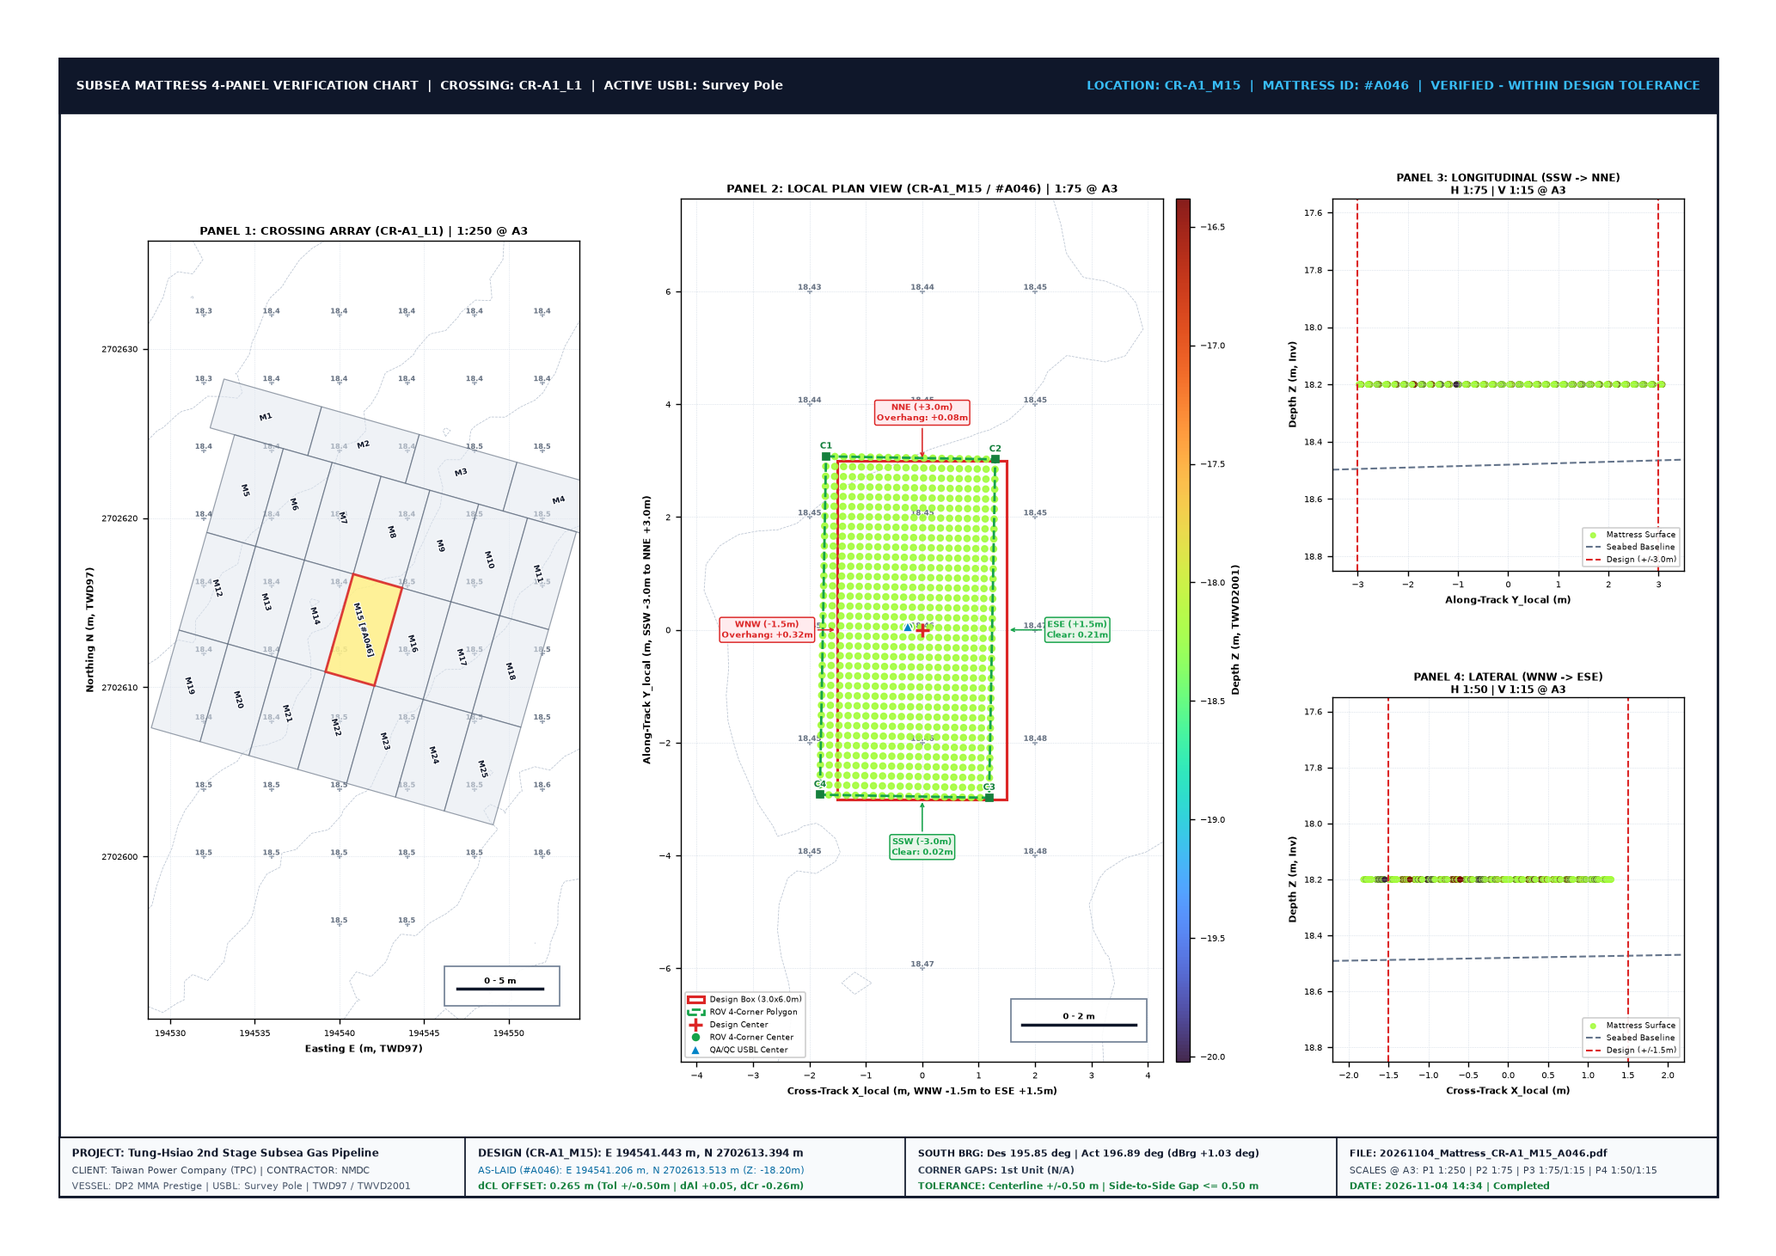
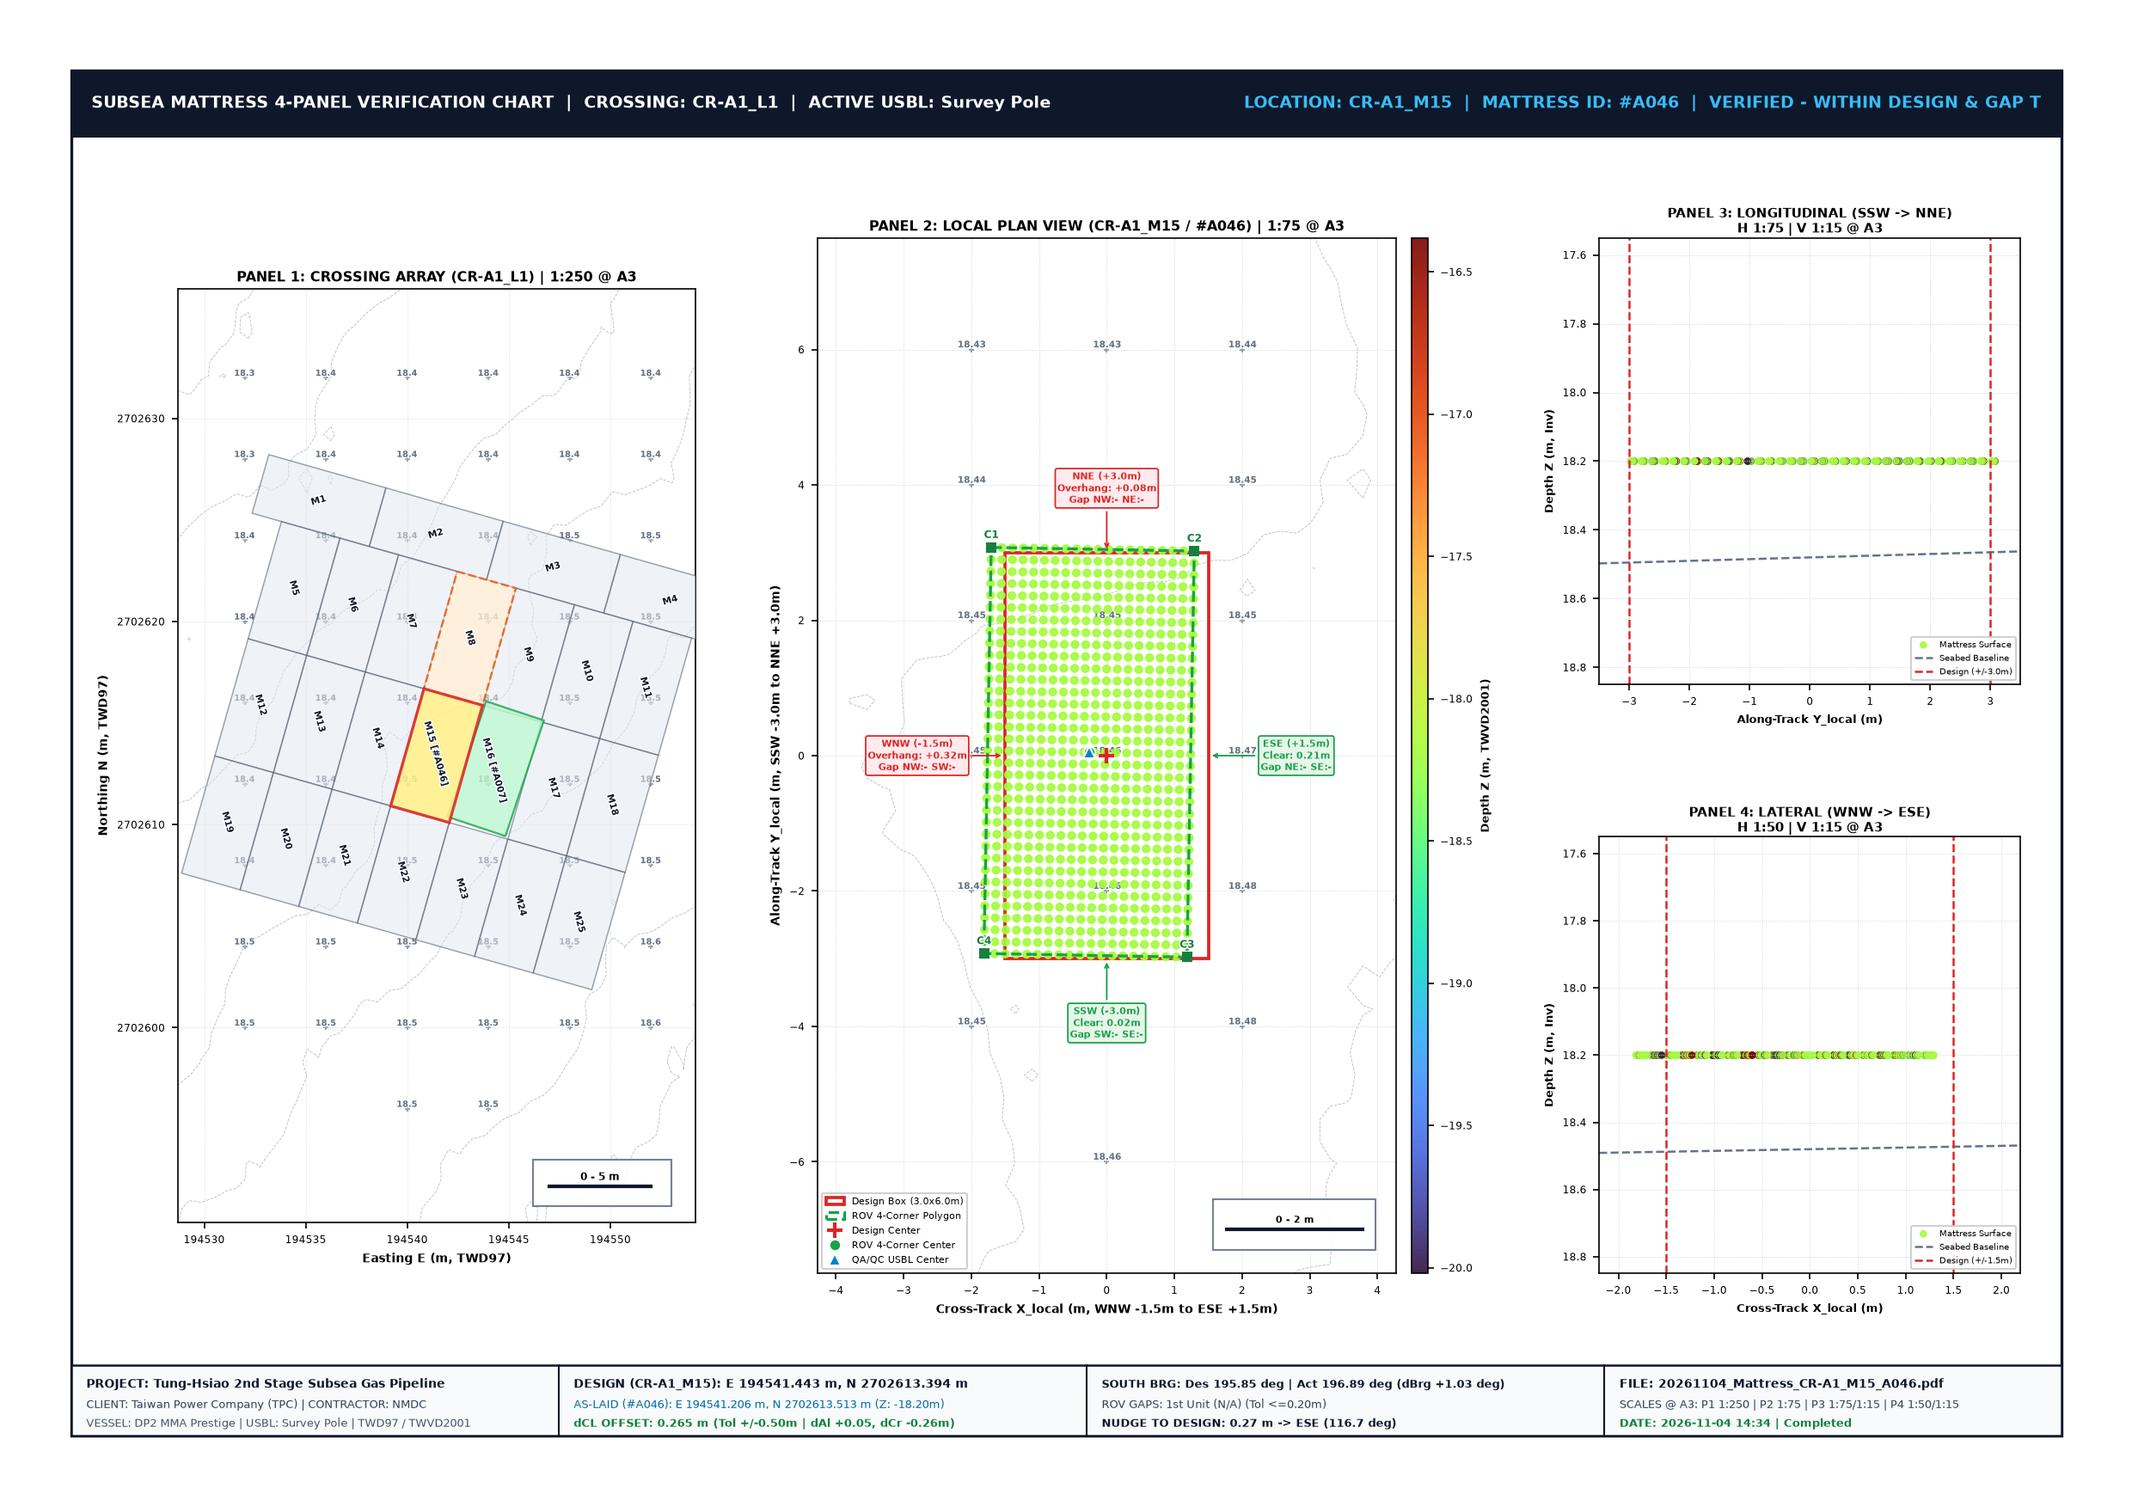
fix(mti): set concrete mattress thickness to 0.30m (30cm) and center Panels 3 & 4 Z-axes

diff --git a/mti_4panel_math.py b/mti_4panel_math.py
@@ -1,4 +1,4 @@
-import os, re, math, json
+import os, re, math, json
 from datetime import datetime
 import numpy as np
 
@@ -253,7 +253,6 @@ def idw_interpolate(src_xy, src_z, query_xy, power=2.0):
     return (w @ src_z) / np.sum(w, axis=1)
 
 def get_or_build_seabed_xyz(workspace_dir, crossing_id, boxes_dict, ref_depth_m=None):
-    """Loads ONLY real uploaded bathy soundings for the location (never invents fallback depths)."""
     os.makedirs(workspace_dir, exist_ok=True)
     base_area = str(crossing_id or "CR-A1_L1").split("_")[0]
     candidates = [
@@ -275,6 +274,13 @@ def get_or_build_seabed_xyz(workspace_dir, crossing_id, boxes_dict, ref_depth_m=
                 pass
     return np.zeros((0, 3), dtype=float), "NO_BATHY_UPLOADED"
 
+def _is_legacy_placeholder_z(val):
+    try:
+        v = -abs(float(val))
+        return abs(v) < 2.0 or abs(v - (-18.20)) < 0.05 or abs(v - (-18.35)) < 0.05 or abs(v - (-18.45)) < 0.05
+    except Exception:
+        return True
+
 def run_rov_4panel_verification(fix_data, catalog_list, workspace_dir="workspace", cl_tol=0.50, gap_tol=0.50):
     xing_id = str(fix_data.get("crossing_id") or "CR-A1_L1").strip()
     loc_id = str(fix_data.get("design_box_id") or fix_data.get("location_id") or "CR-A1_M15").strip()
@@ -287,9 +293,42 @@ def run_rov_4panel_verification(fix_data, catalog_list, workspace_dir="workspace
     loc_id, xing_id = tb["id"], tb["layer"]
     des_e, des_n, des_brg, des_az, ul, us = tb["design_e"], tb["design_n"], tb["bearing"], tb["azimuth"], tb["u_long"], tb["u_short"]
 
+    # 1. Load real bathy seabed FIRST so we know the true seabed elevation at the mattress location
+    seabed_full_xyz, bathy_src = get_or_build_seabed_xyz(workspace_dir, xing_id, boxes_dict)
+    if len(seabed_full_xyz) > 0:
+        sb_d = seabed_full_xyz[:, :2] - np.array([des_e, des_n])
+        sb_x, sb_y = sb_d @ us, sb_d @ ul
+        m_loc = (np.abs(sb_x) <= 12.0) & (np.abs(sb_y) <= 14.0)
+        seabed_local_xyz = np.column_stack([sb_x[m_loc], sb_y[m_loc], seabed_full_xyz[m_loc, 2]]) if np.any(m_loc) else np.column_stack([sb_x, sb_y, seabed_full_xyz[:, 2]])
+        b_zmin, b_zmax = round(float(np.min(seabed_full_xyz[:, 2])), 2), round(float(np.max(seabed_full_xyz[:, 2])), 2)
+        sb_near_global = seabed_full_xyz[m_loc] if np.any(m_loc) else seabed_full_xyz
+        seabed_at_center = float(idw_interpolate(sb_near_global[:, :2], sb_near_global[:, 2], np.array([[des_e, des_n]]))[0])
+    else:
+        seabed_local_xyz = np.zeros((0, 3), dtype=float)
+        sb_near_global = np.zeros((0, 3), dtype=float)
+        b_zmin, b_zmax = 0.0, 0.0
+        seabed_at_center = -54.00
+
+    # Concrete Mattress Thickness = 30 cm (0.30 m) above seabed by default
+    try:
+        mat_thick = float(fix_data.get("mat_thickness_m") if fix_data.get("mat_thickness_m") is not None and str(fix_data.get("mat_thickness_m")).strip() != "" else 0.30)
+    except Exception:
+        mat_thick = 0.30
+
     as_e, as_n = float(fix_data.get("aslaid_e") or fix_data.get("qaqc_e") or des_e), float(fix_data.get("aslaid_n") or fix_data.get("qaqc_n") or des_n)
-    raw_z = float(fix_data.get("aslaid_z") or 0.0)
-    as_z = -abs(raw_z) if abs(raw_z) > 2.0 else (-18.20 if unit_no == 1 else -18.35)
+    raw_z = fix_data.get("aslaid_z")
+    if raw_z is not None and str(raw_z).strip() != "" and not _is_legacy_placeholder_z(raw_z):
+        cand_z = -abs(float(raw_z))
+        if len(seabed_full_xyz) == 0 or abs(cand_z - seabed_at_center) <= 5.0:
+            as_z = cand_z
+            use_seabed_drape = False
+        else:
+            as_z = round(seabed_at_center + mat_thick, 3)
+            use_seabed_drape = True
+    else:
+        as_z = round(seabed_at_center + mat_thick, 3)
+        use_seabed_drape = True
+
     hdg = float(fix_data.get("heading_deg") or fix_data.get("qaqc_brg") or des_brg)
     hdg = round((hdg + 180.0) % 360.0, 3) if hdg < 180.0 else hdg
 
@@ -298,13 +337,23 @@ def run_rov_4panel_verification(fix_data, catalog_list, workspace_dir="workspace
         ce, cn, cz = fix_data.get(f"c{i}_e"), fix_data.get(f"c{i}_n"), fix_data.get(f"c{i}_z")
         if ce is not None and cn is not None and str(ce).strip() != "" and str(cn).strip() != "":
             try:
-                zv = -abs(float(cz)) if (cz is not None and str(cz).strip() != "" and abs(float(cz)) > 2.0) else as_z
-                c_pts.append([float(ce), float(cn), zv])
+                fe_i, fn_i = float(ce), float(cn)
+                if cz is not None and str(cz).strip() != "" and not _is_legacy_placeholder_z(cz) and not use_seabed_drape:
+                    zv = -abs(float(cz))
+                elif len(sb_near_global) > 0:
+                    zv = float(idw_interpolate(sb_near_global[:, :2], sb_near_global[:, 2], np.array([[fe_i, fn_i]]))[0]) + mat_thick
+                else:
+                    zv = as_z
+                c_pts.append([round(fe_i, 3), round(fn_i, 3), round(zv, 3)])
             except Exception:
                 pass
     if len(c_pts) != 4:
         c2d, _, _ = _box_corners_cw(as_e, as_n, (hdg - 180.0) % 360.0, 6.0, 3.0)
-        c_pts = [[round(float(p[0]), 3), round(float(p[1]), 3), round(as_z, 3)] for p in c2d]
+        if len(sb_near_global) > 0 and use_seabed_drape:
+            cz_arr = idw_interpolate(sb_near_global[:, :2], sb_near_global[:, 2], c2d) + mat_thick
+            c_pts = [[round(float(p[0]), 3), round(float(p[1]), 3), round(float(z_i), 3)] for p, z_i in zip(c2d, cz_arr)]
+        else:
+            c_pts = [[round(float(p[0]), 3), round(float(p[1]), 3), round(as_z, 3)] for p in c2d]
     c_arr = np.array(c_pts, dtype=float)
     as_e, as_n, as_z = float(np.mean(c_arr[:, 0])), float(np.mean(c_arr[:, 1])), float(np.mean(c_arr[:, 2]))
     be, bn, fe, fn = (c_arr[0, 0] + c_arr[1, 0]) / 2.0, (c_arr[0, 1] + c_arr[1, 1]) / 2.0, (c_arr[2, 0] + c_arr[3, 0]) / 2.0, (c_arr[2, 1] + c_arr[3, 1]) / 2.0
@@ -315,6 +364,10 @@ def run_rov_4panel_verification(fix_data, catalog_list, workspace_dir="workspace
     ug, vg = np.meshgrid(np.linspace(0.0, 1.0, 20), np.linspace(0.0, 1.0, 35))
     uf, vf = ug.ravel(), vg.ravel()
     cleaned_xyz = (np.outer((1 - uf) * (1 - vf), c_arr[3]) + np.outer((1 - uf) * vf, c_arr[0]) + np.outer(uf * vf, c_arr[1]) + np.outer(uf * (1 - vf), c_arr[2]))
+    if len(sb_near_global) > 0 and use_seabed_drape:
+        cleaned_xyz[:, 2] = idw_interpolate(sb_near_global[:, :2], sb_near_global[:, 2], cleaned_xyz[:, :2]) + mat_thick
+        as_z = float(np.mean(cleaned_xyz[:, 2]))
+
     d_en = cleaned_xyz[:, :2] - np.array([des_e, des_n])
     x_local, y_local, z_vals = d_en @ us, d_en @ ul, cleaned_xyz[:, 2]
     c_loc_d = c_arr[:, :2] - np.array([des_e, des_n])
@@ -341,17 +394,6 @@ def run_rov_4panel_verification(fix_data, catalog_list, workspace_dir="workspace
 
     verdict = ("VERIFIED - WITHIN DESIGN TOLERANCE" if is_first else "VERIFIED - WITHIN DESIGN & GAP TOLERANCE") if (cl_off <= float(cl_tol) and (is_first or max_gap <= float(gap_tol))) else "ADVISORY - CHECK OFFSET OR GAP TOLERANCE"
 
-    seabed_full_xyz, bathy_src = get_or_build_seabed_xyz(workspace_dir, xing_id, boxes_dict)
-    if len(seabed_full_xyz) > 0:
-        sb_d = seabed_full_xyz[:, :2] - np.array([des_e, des_n])
-        sb_x, sb_y = sb_d @ us, sb_d @ ul
-        m_loc = (np.abs(sb_x) <= 12.0) & (np.abs(sb_y) <= 14.0)
-        seabed_local_xyz = np.column_stack([sb_x[m_loc], sb_y[m_loc], seabed_full_xyz[m_loc, 2]]) if np.any(m_loc) else np.column_stack([sb_x, sb_y, seabed_full_xyz[:, 2]])
-        b_zmin, b_zmax = round(float(np.min(seabed_full_xyz[:, 2])), 2), round(float(np.max(seabed_full_xyz[:, 2])), 2)
-    else:
-        seabed_local_xyz = np.zeros((0, 3), dtype=float)
-        b_zmin, b_zmax = 0.0, 0.0
-
     cad_polylines = load_cad_bg_polylines(workspace_dir, xing_id)
 
     metrics = {
@@ -359,7 +401,9 @@ def run_rov_4panel_verification(fix_data, catalog_list, workspace_dir="workspace
         "status": str(fix_data.get("status") or "Completed"), "base_filename": build_base_filename(loc_id, mat_id, dt_str),
         "design_e": des_e, "design_n": des_n, "design_brg": des_brg, "design_az": des_az,
         "qaqc_e": float(fix_data.get("qaqc_e") or as_e), "qaqc_n": float(fix_data.get("qaqc_n") or as_n), "qaqc_brg": float(fix_data.get("qaqc_brg") or hdg),
-        "aslaid_e": round(as_e, 3), "aslaid_n": round(as_n, 3), "aslaid_z": round(as_z, 3), "heading_deg": hdg, "act_az": act_az, "brg_diff_deg": d_brg,
+        "aslaid_e": round(as_e, 3), "aslaid_n": round(as_n, 3), "aslaid_z": round(as_z, 2),
+        "seabed_at_center_z": round(seabed_at_center, 2), "mat_thickness_m": round(mat_thick, 2),
+        "heading_deg": hdg, "act_az": act_az, "brg_diff_deg": d_brg,
         "cl_offset_m": round(cl_off, 3), "d_along_m": round(d_along, 3), "d_cross_m": round(d_cross, 3), "pct_inside": round(pct_in, 1),
         "corners_enz": c_arr.tolist(), "corners_local": corners_local.tolist(),
         "edge_nne": round(float(np.max(y_local)) - 3.0, 3), "edge_ssw": round(-3.0 - float(np.min(y_local)), 3),

diff --git a/mti_4panel_a3.py b/mti_4panel_a3.py
@@ -1,4 +1,4 @@
-import os, io, re, gc, math
+import os, io, re, gc, math
 import numpy as np
 import matplotlib
 matplotlib.use("Agg")
@@ -178,8 +178,10 @@ def generate_a3_4panel_chart(
     plot_seabed_layer(ax2, seabed_local_xyz, (-hw2, hw2), (-hh2, hh2), True, show_contours, contour_interval, show_soundings, spot_spacing, bathy_src)
     plot_cad_background(ax2, cad_polys, is_local=True, des_e=des_e, des_n=des_n, u_short=tb["u_short"], u_long=tb["u_long"])
 
+    z_mean = float(np.mean(z_vals))
+    vmin_c, vmax_c = round(z_mean - 0.50, 2), round(z_mean + 0.50, 2)
     ax2.add_patch(mpatches.Rectangle((-1.5, -3.0), 3.0, 6.0, fill=False, edgecolor="#dc2626", linewidth=1.8, zorder=5, label="Design Box (3.0x6.0m)"))
-    sc2 = ax2.scatter(x_local, y_local, c=z_vals, cmap="turbo", s=16, alpha=0.9, zorder=6)
+    sc2 = ax2.scatter(x_local, y_local, c=z_vals, cmap="turbo", vmin=vmin_c, vmax=vmax_c, s=16, alpha=0.9, zorder=6)
     cax2 = fig.add_axes([278.0 / W_MM, 46.0 / H_MM, 3.2 / W_MM, 204.0 / H_MM])
     cb2 = fig.colorbar(sc2, cax=cax2); cb2.set_label("Depth Z (m, TWVD2001)", fontsize=6.4, fontweight="bold"); cb2.ax.tick_params(labelsize=5.6)
 
@@ -243,20 +245,20 @@ def generate_a3_4panel_chart(
     ax2.set_xlabel("Cross-Track X_local (m, WNW -1.5m to ESE +1.5m)", fontsize=6.6, fontweight="bold"); ax2.set_ylabel("Along-Track Y_local (m, SSW -3.0m to NNE +3.0m)", fontsize=6.6, fontweight="bold")
     ax2.tick_params(labelsize=5.8); ax2.grid(True, linestyle=":", linewidth=0.45, color="#cbd5e1")
 
-    z_mean = float(np.mean(z_vals))
     sb_loc_arr = np.asarray(seabed_local_xyz, dtype=float)
     for ax_p, coord_arr, lim_x, edge_v, is_long, ttl, x_lbl in [
         (fig.add_axes([315.0 / W_MM, 162.0 / H_MM, 83.0 / W_MM, 88.0 / H_MM]), y_local, (-3.5, 3.5), 3.0, True, "PANEL 3: LONGITUDINAL (SSW -> NNE)" + chr(10) + "H 1:75 | V 1:15 @ A3", "Along-Track Y_local (m)"),
         (fig.add_axes([315.0 / W_MM, 46.0 / H_MM, 83.0 / W_MM, 86.0 / H_MM]), x_local, (-2.2, 2.2), 1.5, False, "PANEL 4: LATERAL (WNW -> ESE)" + chr(10) + "H 1:50 | V 1:15 @ A3", "Cross-Track X_local (m)")
     ]:
-        ax_p.scatter(coord_arr, np.abs(z_vals), c=z_vals, cmap="turbo", s=10, alpha=0.85, label="Mattress Surface")
+        ax_p.scatter(coord_arr, np.abs(z_vals), c=z_vals, cmap="turbo", vmin=vmin_c, vmax=vmax_c, s=10, alpha=0.85, label="Mattress Surface")
         xs_l = np.linspace(lim_x[0], lim_x[1], 40)
         if bathy_src == "SURVEY_BATHY" and len(sb_loc_arr) >= 1:
             q_prof = np.column_stack([np.zeros_like(xs_l), xs_l]) if is_long else np.column_stack([xs_l, np.zeros_like(xs_l)])
             z_prof = idw_interpolate(sb_loc_arr[:, :2], sb_loc_arr[:, 2], q_prof)
             ax_p.plot(xs_l, np.abs(z_prof), "--", color="#0284c7", lw=1.35, label="Survey Seabed Profile")
-            z_span = np.concatenate([np.abs(z_vals), np.abs(z_prof)])
-            y_hi, y_lo = float(np.max(z_span)) + 0.45, float(np.min(z_span)) - 0.45
+            z_center = 0.5 * (float(np.mean(np.abs(z_vals))) + float(np.mean(np.abs(z_prof))))
+            half_win = max(0.65, 0.5 * abs(float(np.max(np.abs(z_prof)) - np.min(np.abs(z_vals)))) + 0.35)
+            y_hi, y_lo = z_center + half_win, z_center - half_win
         else:
             y_hi, y_lo = abs(z_mean) + 0.65, abs(z_mean) - 0.65
         ax_p.axvline(-edge_v, color="#dc2626", ls="--", lw=1.2, label=f"Design (+/-{edge_v:.1f}m)"); ax_p.axvline(edge_v, color="#dc2626", ls="--", lw=1.2)

diff --git a/_finish_hotel_30cm.py b/_finish_hotel_30cm.py
@@ -1,0 +1,38 @@
+import os, glob, ast, subprocess
+
+print("=== [1/3] Stripping UTF-8 BOM (U+FEFF) & Verifying mti_4panel_math.py / mti_4panel_a3.py ===")
+for fn in ("mti_4panel_math.py", "mti_4panel_a3.py"):
+    if os.path.exists(fn):
+        txt = open(fn, "r", encoding="utf-8-sig").read().lstrip("\ufeff")
+        if fn == "mti_4panel_math.py":
+            txt = txt.replace("else 0.15)", "else 0.30)").replace("mat_thick = 0.15", "mat_thick = 0.30")
+        ast.parse(txt)
+        open(fn, "w", encoding="utf-8").write(txt)
+        print(f"  -> Cleaned BOM & AST-verified: {fn}")
+
+print("=== [2/3] Adding 0.30 m Thickness Input to /mti/studio in mti_blueprint.py ===")
+if os.path.exists("mti_blueprint.py"):
+    b_txt = open("mti_blueprint.py", "r", encoding="utf-8-sig").read().lstrip("\ufeff")
+    old_ctrl = '<div class="col-md-1 col-6">\n        <label class="small fw-bold text-light">Mattress ID</label>\n        <input type="text" id="inpTagId" class="form-control form-control-sm fw-bold" value="{{ init_tag }}">\n      </div>'
+    new_ctrl = (
+        '<div class="col-md-1 col-6">\n        <label class="small fw-bold text-light">Mattress ID</label>\n        <input type="text" id="inpTagId" class="form-control form-control-sm fw-bold" value="{{ init_tag }}">\n      </div>\n'
+        '      <div class="col-md-1 col-6">\n        <label class="small fw-bold text-warning" title="Concrete Mattress Thickness (30 cm = 0.30 m)">Thick (m)</label>\n        <input type="number" step="0.01" id="inpMatThick" class="form-control form-control-sm fw-bold bg-dark text-warning border-warning" value="0.30">\n      </div>'
+    )
+    if 'id="inpMatThick"' not in b_txt and old_ctrl in b_txt:
+        b_txt = b_txt.replace(old_ctrl, new_ctrl, 1)
+        b_txt = b_txt.replace('<div class="col-md-3 col-12">\n        <label class="small fw-bold text-info">1-Click Installed Ledger Mattress Switcher</label>', '<div class="col-md-2 col-12">\n        <label class="small fw-bold text-info">Ledger Switcher</label>', 1)
+        b_txt = b_txt.replace("payload.physical_tag = document.getElementById('inpTagId').value.trim();", "payload.physical_tag = document.getElementById('inpTagId').value.trim();\n  if (document.getElementById('inpMatThick')) payload.mat_thickness_m = document.getElementById('inpMatThick').value;")
+    elif 'id="inpMatThick"' in b_txt:
+        b_txt = b_txt.replace('value="0.15"', 'value="0.30"')
+    ast.parse(b_txt)
+    open("mti_blueprint.py", "w", encoding="utf-8").write(b_txt)
+    print("  -> Cleaned BOM & AST-verified: mti_blueprint.py (Thick = 0.30 m)")
+
+os.makedirs("workspace", exist_ok=True)
+for p in glob.glob(os.path.join("workspace", "*.pdf")):
+    try: os.remove(p)
+    except Exception: pass
+
+print("=== [3/3] Pushing 0.30 m (30 cm) Mattress Thickness Update to GitHub & Render ===")
+sync_py = "python" if os.path.exists(".venv/Scripts/python.exe") else "py"
+subprocess.run([sync_py, "sync.py", "fix(mti): set concrete mattress thickness to 0.30m (30cm) and center Panels 3 & 4 Z-axes"], check=False)

diff --git a/mti_blueprint.py b/mti_blueprint.py
@@ -1179,8 +1179,8 @@ STUDIO_HTML_TEMPLATE = r"""<!DOCTYPE html>
 
   <div class="studio-card p-2 mb-2">
     <div class="row g-2 align-items-end">
-      <div class="col-md-3 col-12">
-        <label class="small fw-bold text-info">1-Click Installed Ledger Mattress Switcher</label>
+      <div class="col-md-2 col-12">
+        <label class="small fw-bold text-info">Ledger Switcher</label>
         <select id="ledgerSelect" class="form-select form-select-sm fw-bold bg-dark text-warning border-info" onchange="window.selectLedgerUnit(this.value)">
           {% for r in ledger %}
           <option value="{{ r.design_box_id }}" {% if r.design_box_id == init_box %}selected{% endif %}>
@@ -1196,6 +1196,10 @@ STUDIO_HTML_TEMPLATE = r"""<!DOCTYPE html>
       <div class="col-md-1 col-6">
         <label class="small fw-bold text-light">Mattress ID</label>
         <input type="text" id="inpTagId" class="form-control form-control-sm fw-bold" value="{{ init_tag }}">
+      </div>
+      <div class="col-md-1 col-6">
+        <label class="small fw-bold text-warning" title="Concrete Mattress Thickness (30 cm = 0.30 m)">Thick (m)</label>
+        <input type="number" step="0.01" id="inpMatThick" class="form-control form-control-sm fw-bold bg-dark text-warning border-warning" value="0.30">
       </div>
       <div class="col-md-1 col-6">
         <label class="small fw-bold text-light">P1 Scale</label>
@@ -1269,6 +1273,7 @@ window.runStudioVerify = function(extra) {
   const payload = Object.assign({}, Object.fromEntries(INIT_PARAMS.entries()), extra || {});
   payload.design_box_id = (extra && extra.design_box_id) || document.getElementById('inpBoxId').value.trim();
   payload.physical_tag = document.getElementById('inpTagId').value.trim();
+  if (document.getElementById('inpMatThick')) payload.mat_thickness_m = document.getElementById('inpMatThick').value;
   payload.scale_p1 = document.getElementById('fpScP1').value;
   payload.scale_p2 = document.getElementById('fpScP2').value;
   payload.show_soundings = document.getElementById('fpSnd').checked;
